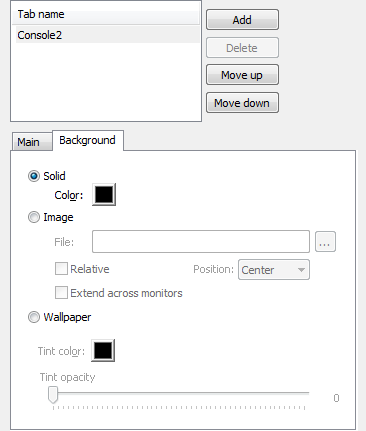
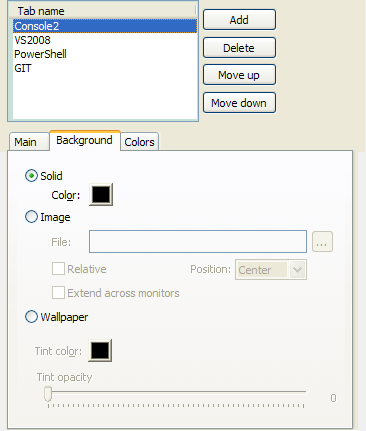
Update Help with new per-tab colors map

diff --git a/help/html/settings_tabs.html b/help/html/settings_tabs.html
@@ -146,7 +146,31 @@
 		Set tint opacity for image and wallpaper background types.
 	</p>
 	<br />
+	<br />
 
+
+	<p>
+	<img src="../images/settings_tabs_colors.png" />
+	</p>
+
+	<h2>Colors</h2>
+
+	<p>These squares allow you to customize default 16 console colors for the selected tab.
+	Clicking on the right square will bring up a color picker allowing you to select a new color.
+	If you confirm your choice of color, <b>Inherit</b> will be turned off.
+	</p>
+
+	<p class="block-row-name">Inherit</p>
+	<p class="block-row-description">
+		Indicates that the tab uses the default colors map from <a href="settings_console.html">Console</a> settings.
+	</p>
+	<br />
+
+	<p class="block-row-name">Reset</p>
+	<p class="block-row-description">
+		Will reset colors for the selected tab only. Implies turning off the <b>Inherit</b>.
+	</p>
+	<br />
 
 </body>
 
